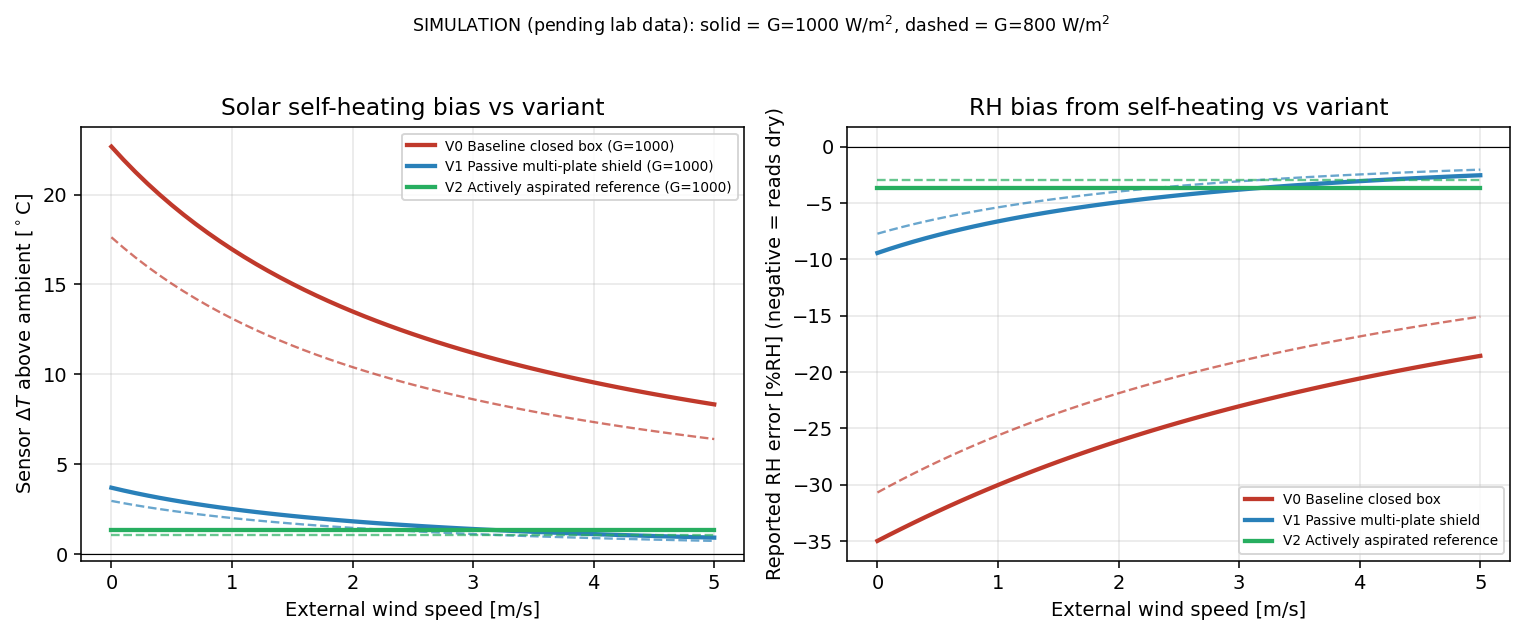
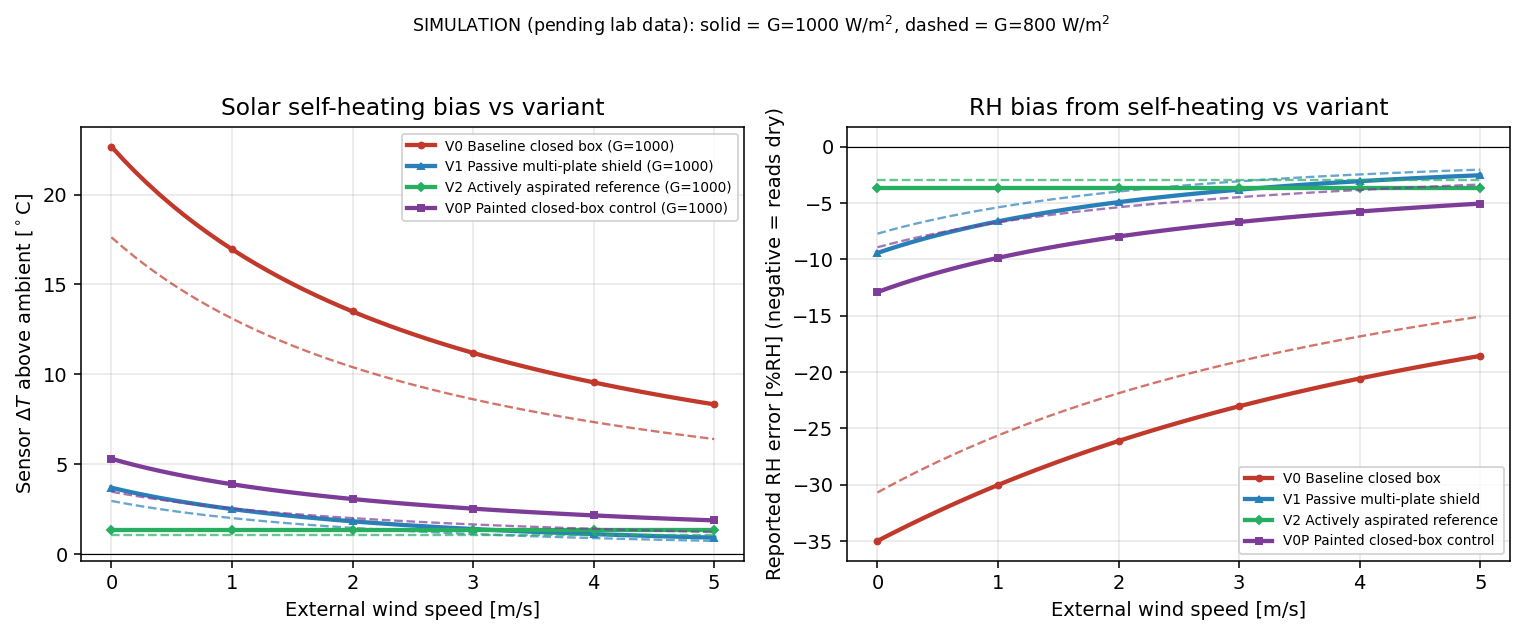
fix: include matched-finish control in thermal evidence

diff --git a/analysis/thermal_bias.py b/analysis/thermal_bias.py
@@ -34,6 +34,9 @@ VARIANTS (from ``docs/cad_fea_plan.md`` Section 2)
   V0  Baseline closed box. Sensor effectively coupled to a solar-loaded wall;
       light internal electronics/battery self-heating; modest natural
       convection. This is the "enclosure reads hot" baseline.
+  V0P Painted closed-box control. V0 with only solar absorptance changed to
+      match V1/V2; geometry, heat load, convection and emissivity stay fixed.
+      V0P-to-V1 remains a system comparison, not an isolated shielding effect.
   V1  Passive multi-plate radiation shield (Stevenson-style). Stacked plates
       shade the sensor (large reduction in the solar flux that reaches it) and
       open inter-plate gaps boost natural convection. Two-zone layout keeps the
@@ -50,7 +53,7 @@ from __future__ import annotations
 
 import argparse
 import math
-from dataclasses import dataclass, field
+from dataclasses import dataclass, field, replace
 
 import numpy as np
 
@@ -280,7 +283,7 @@ def _a(name: str):
 
 def build_variants() -> list[Variant]:
     eps = float(_a("eps_surface"))
-    return [
+    variants = [
         Variant(
             vid="V0",
             name="Baseline closed box",
@@ -322,6 +325,15 @@ def build_variants() -> list[Variant]:
             note="V1 shield + low-power fan; forced convection at the sensor (upper-bound airflow).",
         ),
     ]
+    # Preserve the legacy V0/V1/V2 order used by sensitivity callers. Copy the
+    # dark box rather than reconstructing it: painting must not change geometry,
+    # ventilation, sky view or coupled electronics load accidentally.
+    variants.append(replace(
+        variants[0], vid="V0P", name="Painted closed-box control",
+        alpha=float(_a("alpha_shield")),
+        note="V0 with only absorptance matched to V1/V2; all other physics unchanged.",
+    ))
+    return variants
 
 
 # ---------------------------------------------------------------------------
@@ -404,6 +416,8 @@ def print_bias_table(res: SweepResult, variants: list[Variant], wind_marks: list
     print("BIAS-VS-VARIANT TABLE  (SIMULATION -- pending lab co-location data)")
     print("delta-T = sensor temperature rise above true ambient [degC]")
     print("RH_err  = reported-minus-true relative humidity [%RH] (negative = reads dry)")
+    print("V0P holds V0 geometry/load/airflow fixed; only absorptance matches the shield.")
+    print("V0P versus V1 is a system comparison, not an isolated shielding effect.")
     print("=" * 78)
     header = f"{'G[W/m2]':>8}{'wind[m/s]':>11}  " + "".join(
         f"{name_by_id[v]+' dT/RHerr':>26}" for v in vid_order
@@ -470,7 +484,8 @@ def make_figure(res: SweepResult, variants: list[Variant], out_path: str) -> Non
 
     g_hi = max(res.g_values)
     g_lo = min(res.g_values)
-    colors = {"V0": "#c0392b", "V1": "#2980b9", "V2": "#27ae60"}
+    colors = {"V0": "#c0392b", "V0P": "#7d3c98", "V1": "#2980b9", "V2": "#27ae60"}
+    markers = {"V0": "o", "V0P": "s", "V1": "^", "V2": "D"}
     name_by_id = {v.vid: v.name for v in variants}
 
     fig, axes = plt.subplots(1, 2, figsize=(11, 4.4))
@@ -480,6 +495,7 @@ def make_figure(res: SweepResult, variants: list[Variant], out_path: str) -> Non
         ax.plot(
             res.wind, res.dT[v.vid][g_hi],
             color=colors[v.vid], lw=2.2,
+            marker=markers[v.vid], markevery=10, markersize=3,
             label=f"{v.vid} {name_by_id[v.vid]} (G={g_hi:.0f})",
         )
         ax.plot(
@@ -498,6 +514,7 @@ def make_figure(res: SweepResult, variants: list[Variant], out_path: str) -> Non
         ax.plot(
             res.wind, res.rh_err[v.vid][g_hi],
             color=colors[v.vid], lw=2.2,
+            marker=markers[v.vid], markevery=10, markersize=3,
             label=f"{v.vid} {name_by_id[v.vid]}",
         )
         ax.plot(
@@ -562,8 +579,7 @@ def sensitivity_block(
     print(f"{'baseline':<46}{dt_of(base['V0']):>10.1f}{dt_of(base['V1']):>10.1f}")
 
     # alpha (baseline surface darkness): light vs dark
-    v0_light = build_variants()[0]
-    v0_light.alpha = 0.30
+    v0_light = base["V0P"]
     print(f"{'V0 surface painted white (alpha 0.90 -> 0.30)':<46}"
           f"{dt_of(v0_light):>10.1f}{'-':>10}")
 

diff --git a/analysis/tests/test_thermal_bias.py b/analysis/tests/test_thermal_bias.py
@@ -1,0 +1,79 @@
+"""Developer checks for the matched-finish control, not physical validation."""
+
+import csv
+from dataclasses import asdict
+import io
+from pathlib import Path
+import subprocess
+import sys
+import tempfile
+import unittest
+
+import numpy as np
+
+from analysis.thermal_bias import build_variants, run_sweep, write_bias_table
+
+
+class MatchedFinishTests(unittest.TestCase):
+    def setUp(self):
+        self.variants = build_variants()
+        self.by_id = {v.vid: v for v in self.variants}
+
+    def sweep(self, solar):
+        return run_sweep(self.variants, np.array([0.0, 0.5, 5.0]), solar,
+                         30.0, 50.0, 10.0, 5.0, 4.0)
+
+    def test_painted_control_changes_only_absorptance_and_labels(self):
+        self.assertIn("V0P", self.by_id, "Primary painted control is absent from the main sweep")
+        dark = asdict(self.by_id["V0"])
+        painted = asdict(self.by_id["V0P"])
+        for key in ("vid", "name", "note", "alpha"):
+            dark.pop(key)
+            painted.pop(key)
+        self.assertEqual(dark, painted)
+        self.assertEqual(self.by_id["V0P"].alpha, self.by_id["V1"].alpha)
+        self.assertEqual(self.by_id["V0P"].eps, self.by_id["V1"].eps)
+
+    def test_control_does_not_mutate_dark_box_and_keeps_existing_predictions(self):
+        self.assertEqual(self.by_id["V0"].alpha, 0.9)
+        result = self.sweep([1000.0])
+        for vid, expected in (("V0", 19.4), ("V0P", 4.5), ("V1", 3.0), ("V2", 1.3)):
+            self.assertIn(vid, result.dT)
+            self.assertAlmostEqual(result.dT[vid][1000.0][1], expected, delta=0.1)
+
+    def test_no_solar_means_absorptance_control_has_no_effect(self):
+        result = self.sweep([0.0])
+        self.assertIn("V0P", result.dT)
+        np.testing.assert_array_equal(result.dT["V0"][0.0], result.dT["V0P"][0.0])
+        np.testing.assert_array_equal(result.rh_err["V0"][0.0], result.rh_err["V0P"][0.0])
+
+    def test_csv_contains_matched_control_at_every_operating_point(self):
+        result = self.sweep([800.0, 1000.0])
+        with tempfile.TemporaryDirectory() as directory:
+            output = Path(directory) / "bias.csv"
+            write_bias_table(result, self.variants, [0.0, 0.5, 5.0], str(output))
+            lines = output.read_text().splitlines()
+        self.assertIn("SIMULATION", lines[0])
+        rows = list(csv.DictReader(io.StringIO("\n".join(lines[1:]))))
+        self.assertEqual(len(rows), 24)
+        for g in ("800", "1000"):
+            for wind in ("0.0", "0.5", "5.0"):
+                self.assertEqual({r["variant_id"] for r in rows
+                                  if r["g_w_m2"] == g and r["wind_m_s"] == wind},
+                                 {"V0", "V0P", "V1", "V2"})
+
+    def test_consumer_cli_exports_control_and_figure_outside_checkout(self):
+        script = Path(__file__).resolve().parents[1] / "thermal_bias.py"
+        with tempfile.TemporaryDirectory() as directory:
+            result = subprocess.run(
+                [sys.executable, str(script), "--table", "bias.csv", "--figure", "bias.png"],
+                cwd=directory, text=True, capture_output=True)
+            self.assertEqual(result.returncode, 0, result.stderr)
+            self.assertIn("Painted closed-box control", result.stdout)
+            self.assertIn("not an isolated shielding effect", result.stdout)
+            self.assertIn(",V0P,", (Path(directory) / "bias.csv").read_text())
+            self.assertGreater((Path(directory) / "bias.png").stat().st_size, 1000)
+
+
+if __name__ == "__main__":
+    unittest.main()

diff --git a/evidence/task-2026-09-08/verification.md b/evidence/task-2026-09-08/verification.md
@@ -1,0 +1,133 @@
+# EN-D01 — first-class matched-finish control
+
+Prepared 2026-09-08. Source base: `199cb5d38bc70af271b4e064d79d4d8415ff4630`.
+Branch: `task/priority-one-20260908`. Candidate identity: containing commit,
+reported by the PR; no self-referential commit hash. Repository:
+`https://github.com/500ft/Enclosure-Research`.
+Commands below run from repository root unless stated otherwise.
+
+## Why this task is P1 and executable now
+
+[Earlier review](../../docs/REVIEW_READY.md) keeps physical matched-finish
+comparison open. [Model results](../../analysis/thermal_bias_results.md) call the
+painted box a primary control, but baseline `build_variants()` returned only
+V0/V1/V2: default CSV/plot omitted the control and the sensitivity print was
+its only numerical output. This was verified from code and default execution,
+not assumed from the earlier audit. The field denominator and CAD inventory
+tasks still need owner-provided data; this correction needs none.
+
+Task: promote the absorptance-matched box to the main analytical outputs.
+Test: control invariants, all operating points, null solar intervention,
+unchanged existing predictions, real exported CSV/PNG via CLI.
+Done when: those tests and CI-equivalent checks pass, the default outputs contain
+the control, and the remaining causal/physical limits are explicit.
+
+## Runtime and baseline
+
+`python3 --version`: Python 3.13.7. Initial `python3 -m unittest discover -s
+analysis/tests -v` exited 1: missing pandas caused one import error and two
+downstream CLI failures. This is not a reproduced product defect.
+
+Existing `python` resolves to `/Users/redhose/ENTER/bin/python`, Python 3.11.8;
+numpy 2.1.1, pandas 2.2.3, matplotlib 3.10.1. No dependency installation needed.
+Configured identity: `500ft <153922251+500ft@users.noreply.github.com>`.
+
+Before behavior edits:
+
+| Command | Exit | Observation |
+|---|---:|---|
+| `python -m compileall -q analysis` | 0 | Compile passes |
+| `python -m unittest discover -s analysis/tests -v` | 0 | 24 tests, 1.172 s |
+| `python analysis/check_literature_coverage.py` | 0 | 26 entries, 26 analyses, complete |
+| `python analysis/thermal_bias.py --no-figure --table ''` | 0 | Main table omits painted control; sensitivity prints 4.5°C |
+
+No dedicated type checker, linter or package build is configured; do not infer
+that these ran. CI compiles, tests, checks bibliography and executes the model.
+
+## Test-first failure and correction
+
+Added [five tests](../../analysis/tests/test_thermal_bias.py), then ran
+`python -m unittest analysis.tests.test_thermal_bias -v` against unchanged
+implementation: exit 1, **five failures** (0.650 s). Relevant outputs:
+
+```text
+AssertionError: 'V0P' not found ... Primary painted control is absent from the main sweep
+AssertionError: 18 != 24
+AssertionError: 'Painted closed-box control' not found ...
+Ran 5 tests ... FAILED (failures=5)
+```
+
+Small change: copy V0 using `dataclasses.replace`, change absorptance to the
+existing shield assumption 0.30, add ID/name/note, retain all other parameters.
+Append without changing legacy positional V0/V1/V2 order. Sensitivity reuses
+that control. Plot supports its color and redundant variant marker; console
+explicitly says V0P versus V1 is not an isolated shielding effect.
+
+## Green checks and reproducibility
+
+| Command / procedure | Exit | Observation |
+|---|---:|---|
+| `python -m compileall -q analysis` | 0 | Compiles |
+| `python -m unittest analysis.tests.test_thermal_bias -v` | 0 | 5 pass, 0.649 s |
+| `python -m unittest discover -s analysis/tests -v` | 0 | 29 pass, 1.757 s |
+| `python analysis/check_literature_coverage.py` | 0 | 26/26 complete |
+| `python analysis/thermal_bias.py` | 0 | Regenerates default CSV and PNG |
+| `python evidence/sprint-2026-09-05/evaluate_candidate.py` | 0 | Original 4 hashes match; 12/12 developer accounting cases pass |
+| Legacy CSV comparison below | 0 | All 30 original rows exactly equal; 10 V0P rows added |
+| `git diff --check` | 0 | No whitespace errors |
+
+Final rerun after documentation changes: compile, 29 tests (1.746 s),
+bibliography coverage, `python analysis/thermal_bias.py --no-figure`, and diff
+check each exited 0. Ledger comparison confirms all 12 historical task rows
+byte-preserved, one new EN-D01 row, and the original total still 30 hours.
+An initial ad-hoc ledger check incorrectly expected 14 total rows and failed;
+the corrected check derives the original count from git and compares each row,
+rather than changing the actual ledger to satisfy that mistaken assertion.
+
+The CLI test invokes the absolute script path with the current interpreter from
+a newly created temporary directory, exports `bias.csv` and `bias.png`, asserts
+V0P's presence and the causal warning, and checks a nonempty image. Generated
+default PNG was also visually inspected: four legends/curves are legible and
+axis labels do not overlap. PNG byte equality is not required across font builds.
+
+Repeat legacy-row comparison (no writes):
+
+```bash
+python - <<'PY'
+import csv, io, subprocess
+from pathlib import Path
+base = '199cb5d38bc70af271b4e064d79d4d8415ff4630'
+old_text = subprocess.check_output(['git', 'show', base + ':analysis/output/thermal_bias_table.csv'], text=True)
+old = list(csv.DictReader(io.StringIO('\n'.join(old_text.splitlines()[1:]))))
+new = list(csv.DictReader(io.StringIO('\n'.join(Path('analysis/output/thermal_bias_table.csv').read_text().splitlines()[1:]))))
+assert [r for r in new if r['variant_id'] != 'V0P'] == old
+assert len(old) == 30 and len(new) == 40
+print('30 unchanged legacy rows; 10 new painted-control rows')
+PY
+```
+
+Hashes after regeneration (`shasum -a 256`; emitted a locale fallback warning
+but exited 0):
+
+| Path | SHA-256 |
+|---|---|
[4 lines of base64/hex data omitted]
+
+## Interpretation and remaining blockers
+
+At 1000 W/m², 0.5 m/s: V0 19.4162°C, V0P 4.4796°C, V1 3.0025°C.
+The 1.4771°C difference is a **whole-system model contrast**. V0P/V1 still
+differ in geometry, shielding, coupled internal heat, convection, sky view and
+preheated-air treatment. Equal optical properties are assumed, not measured.
+At zero solar flux, V0 and V0P match exactly, as required when only absorptance
+is changed. This is a mathematical null intervention, not a validated night model.
+
+No new prior-art, hardware, CAD, reference observations, deployment logs or
+held-out scientific data were used. Tests are developer checks, not independent
+research validation. Human feedback remains pending. Owner inventory/provenance,
+physical matched-finish comparison and joint uncertainty still block a physical
+validation verdict. Historical rendered publication packages are not regenerated.
+The two-hour ledger estimate is scope budgeting, not measured elapsed effort.

diff --git a/analysis/thermal_bias_results.md b/analysis/thermal_bias_results.md
@@ -45,6 +45,32 @@ footnote: at 1000 W/m² and 0.5 m/s the predicted rises are 19.4°C dark box,
 to the painted box is approximately 1.5°C. Differences in coupled heat load,
 geometry, and convection prevent attributing this entire difference to shielding.
 
+The painted control is now a first-class `V0P` variant in the default CSV and
+figure, not just the single-point sensitivity calculation. It is copied from
+`V0` with only absorptance changed from 0.90 to 0.30. Equal emissivity is a
+modeling assumption, not a measured property of a paint or filament. The main
+[CSV](output/thermal_bias_table.csv) contains all four variants at every reported
+operating point; the existing V0/V1/V2 values are unchanged.
+
+| G [W/m²] | wind [m/s] | V0P dT [°C] | V0P RH error [%RH] | V0P minus V1 dT [°C] |
+|---:|---:|---:|---:|---:|
+| 800 | 0.0 | 3.4679 | -8.9307 | 0.5156 |
+| 800 | 0.5 | 2.9290 | -7.6692 | 0.5265 |
+| 800 | 1.0 | 2.5343 | -6.7176 | 0.5353 |
+| 800 | 2.0 | 1.9955 | -5.3794 | 0.5425 |
+| 800 | 5.0 | 1.2175 | -3.3637 | 0.4899 |
+| 1000 | 0.0 | 5.2965 | -12.9049 | 1.6087 |
+| 1000 | 0.5 | 4.4796 | -11.1857 | 1.4771 |
+| 1000 | 1.0 | 3.8793 | -9.8651 | 1.3803 |
+| 1000 | 2.0 | 3.0576 | -7.9743 | 1.2405 |
+| 1000 | 5.0 | 1.8674 | -5.0543 | 0.9571 |
+
+The last column is the difference of the exported rounded predictions. It is
+neither measured shielding benefit nor an uncertainty bound. The small
+800 W/m² differences also show why the dark-box comparison alone overstates the
+incremental design case. Physical matched-finish comparisons, geometry inventory
+and joint-uncertainty evaluation remain required before a validation verdict.
+
 Ambient case: `T_air = 30 degC`, `RH_true = 50 %`, clear-sky `T_sky = 10 degC`
 (20 K depression). `dT` in degC (sensor rise above true ambient); `RH_err` in
 %RH (reported minus true; **negative = reads dry**).
@@ -86,7 +112,8 @@ the literature finding that aspiration helps **mainly at low wind** (Theisen et 
 Deford et al.).
 
 Figure: `analysis/figures/thermal_bias.png` (left: dT vs wind; right: RH_err vs
-wind; solid = 1000 W/m^2, dashed = 800 W/m^2).
+wind; solid = 1000 W/m^2, dashed = 800 W/m^2; V0P is the painted control).
+Marker shapes distinguish variants on the 1000 W/m² curves as well as color.
 
 ## 3. Assumptions block (every input, with status)
 

diff --git a/docs/SPRINT_PROGRESS.md b/docs/SPRINT_PROGRESS.md
@@ -1,5 +1,28 @@
 # Sprint progress
 
+## 2026-09-08 — EN-D01: primary matched-finish thermal control
+
+One additional two-hour-estimate P1 task, outside the original 30-hour sprint;
+historical task rows and owner-blocked work remain unchanged. Baseline main
+`199cb5d38bc70af271b4e064d79d4d8415ff4630`, clean starting tree; worktree
+`/Users/redhose/Developer/daily-prs/2026-09-08/Enclosure-Research`, branch
+`task/priority-one-20260908`. Agent used execute-and-test and quality-gates:
+baseline 24 tests pass, then five new regressions fail before implementation,
+then 29 pass. The initial `python3` (3.13.7) attempt lacked pandas; this was an
+environment mismatch, resolved with existing `python` (3.11.8), not a code fix.
+
+Default sweep/CSV/figure now include V0P: a copied V0 with only absorptance
+changed to match the shield. Existing 30 numeric CSV rows are preserved exactly;
+10 control rows added. External-working-directory CLI and regenerated figure
+were checked. No fabricated measurements, new physical approval, external
+outreach or deployment. [Verification and limits](../evidence/task-2026-09-08/verification.md).
+
+Containing commit identifies source; local changes are committed as 500ft for
+the requested PR. Parent agent verifies push/PR separately. Next command:
+`python -m unittest discover -s analysis/tests -v`. Next scientific unblock:
+Owner supplies the actual box/reference inventory and authorized provenance;
+the model comparison is not an isolated shield-effect or hardware verdict.
+
 ## 2026-09-06 — Main-branch placement authorized
 
 Owner explicitly requested these PRs be merged to their respective main branches. This supersedes earlier placement-blocked/draft-only entries for the current changes. The combined main-targeted PR retains prerequisite integrity work, unchanged task ledgers and all actual hardware/disclosure gates. No CAD or experiment is marked complete. Merge completion and resulting main commit are verified by GitHub rather than asserted in advance here.

diff --git a/docs/REVIEW_READY.md b/docs/REVIEW_READY.md
@@ -1,5 +1,17 @@
 # Enclosure software review packet — partial field-validation handoff
 
+## 2026-09-08 addendum — matched-finish thermal control
+
+New task EN-D01 uses base `199cb5d38bc70af271b4e064d79d4d8415ff4630` and
+branch `task/priority-one-20260908`. Source identity is the addendum's containing
+commit / PR head, not the older candidate manifest below. See
+[task verification](../evidence/task-2026-09-08/verification.md) for five red/green
+regressions, all 29 tests, consumer CLI/figure checks and artifact hashes.
+`V0P` is a new variant ID and adds ten CSV rows; all thirty legacy rows remain
+unchanged. These are analytical controls, not new field measurements. The
+historical review packet below remains the record of the earlier integrity sprint.
+
+
 Prepared 2026-09-06; sprint began 2026-09-05. Repository:
 `/Users/redhose/Developer/research-sprints/2026-09-05/Enclosure-Research`, remote
 `https://github.com/500ft/Enclosure-Research.git`.

diff --git a/README.md b/README.md
@@ -34,7 +34,8 @@ The cheapest comparison matters: at 1000 W/m² and 0.5 m/s the model predicts
 3.0°C for the passive shield. The latter's incremental modeled advantage over
 the painted box is about 1.5°C; the variants also differ in heat coupling and
 convection assumptions. This does not isolate a measured shielding effect.
-See [the sensitivity calculation](analysis/thermal_bias_results.md#4-sensitivity-which-uncertain-input-dominates).
+The default CSV and figure include the painted control (`V0P`) at every reported
+operating point. See [the matched-finish model comparison](analysis/thermal_bias_results.md#2-bias-vs-variant-table-analytical-system-comparison).
 
 ```mermaid
 flowchart LR
